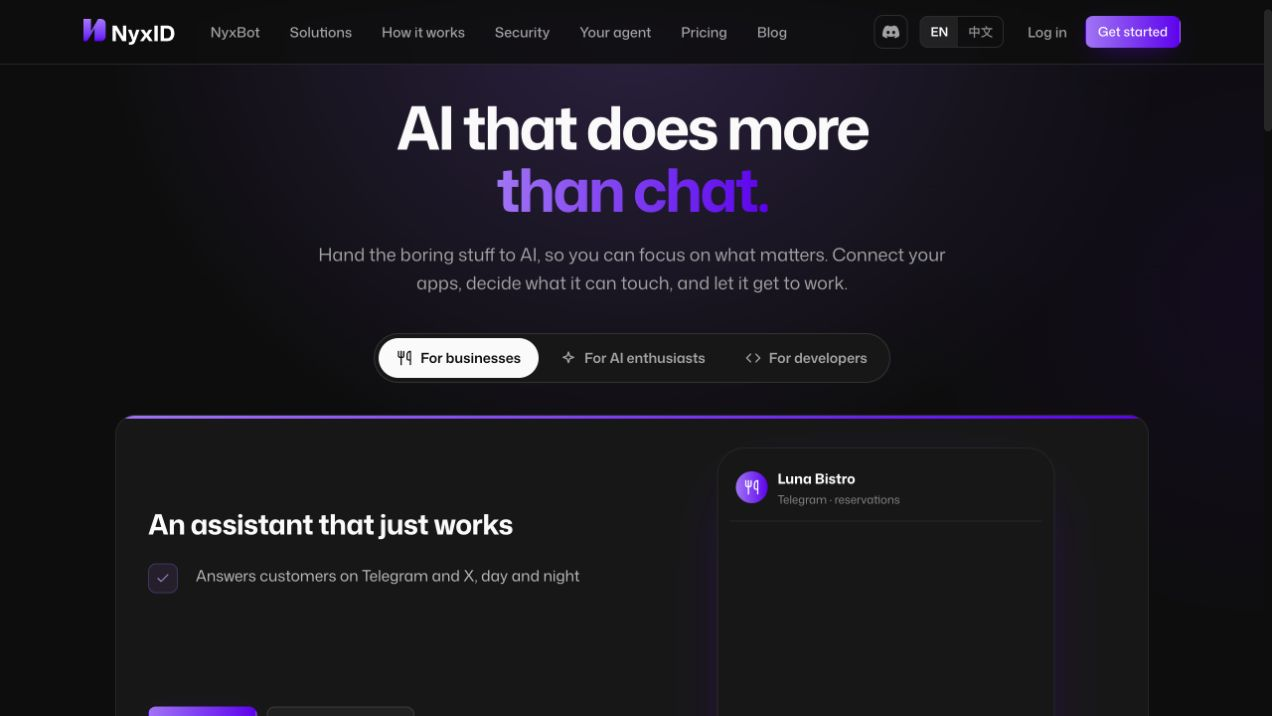
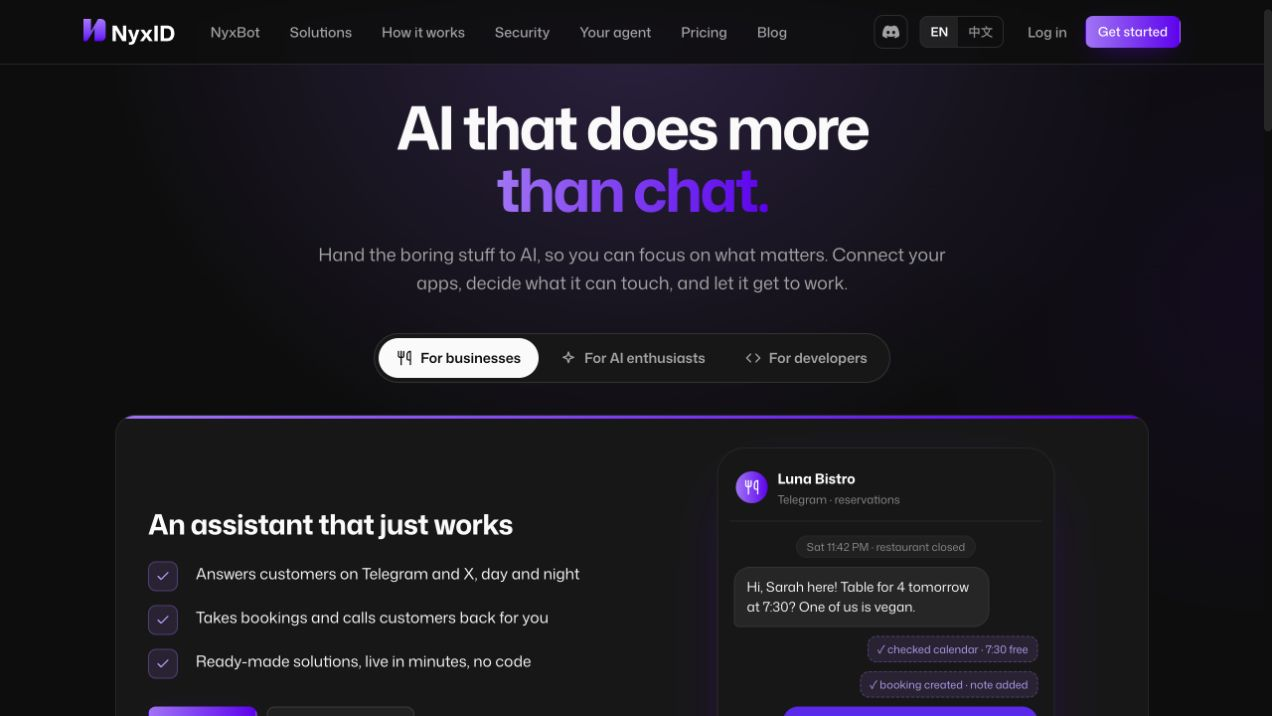
docs(website): 📝 record PR blocker and acceptance handoff

diff --git a/docs/plans/website-a-pr.md b/docs/plans/website-a-pr.md
@@ -1,0 +1,48 @@
+# Website A PR preparation
+
+PR creation is pending connector permission (`403 Resource not accessible by integration`). No PR URL or acceptance result is implied by this document.
+
+Create the fork review first:
+
+- Repository: `aelf-hzz780/NyxID`
+- Base: `codex/website-a-base`
+- Head: `codex/website-a-delivery`
+- Compare: https://github.com/aelf-hzz780/NyxID/compare/codex%2Fwebsite-a-base...codex%2Fwebsite-a-delivery?expand=1
+- Draft: yes, while independent acceptance/mobile validation are pending.
+
+Then create the upstream draft PR, linking the fork review:
+
+- Repository: `ChronoAIProject/NyxID`
+- Base: `main`
+- Head: `aelf-hzz780:codex/website-a-delivery`
+- Compare: https://github.com/ChronoAIProject/NyxID/compare/main...aelf-hzz780:codex%2Fwebsite-a-delivery?expand=1
+
+## Title
+
+feat(website): deliver approved NyxID website A
+
+## Body
+
+## Summary
+
+- Implement the approved product HTML as 25 bilingual public routes with its audience showcase, solution examples, integrations, pricing and articles. Keep the v4.1 homepage wall as the original 24-card static grid; no B effects.
+- Retain existing AuthFlow/login/register, invitation attribution, query propagation, trusted returns, authenticated root redirect and legacy blog URLs. Replace prototype-only success/trial actions with real registration/community links; unsupported newsletter submission is clearly unavailable.
+- Commit the source-migration tool, screenshots, runtime adaptations and review evidence in docs/plans/website-a-delivery.md and website-a-evidence. No auth/billing/backend changes, merge or deployment.
+
+## Test Plan
+
+- [x] 85 relevant frontend tests across 10 files; new regression tests cover the public path boundary, auth context and showcase/playback behavior. Backend tests are outside this frontend-only change.
+- [x] Full production build, including TypeScript, legal prerender, credential-accept and mock-footprint checks.
+- [x] Changed TypeScript ESLint; source generation reproduced byte-for-byte.
+- [x] 25 routes × English/Chinese = 50 desktop browser checks, auth entry/query comparison against production, interaction and original tool-wall geometry checks.
+- [ ] Mobile/device/browser validation: blocked because viewport.set(390x844) retained an actual 1280x720 viewport.
+- [ ] Real-account OAuth/MFA completion and independent acceptance: pending, not claimed.
+
+## Checklist
+
+- [x] Native React/router/i18n integration with scoped CSS and animation names.
+- [x] No new hardcoded secrets or credentials; the existing public referral behavior is preserved.
+- [x] No mock login/provisioning, fake contact success or sensitive error disclosure.
+- [x] Documentation, production adaptation matrix, commands, screenshots and residual risks recorded.
+
+Review baseline: codex/website-a-base mirrors upstream commit 8280098785b477a9980cc8aed98f43789d6fd3dc. The fork main branch is 12 commits behind; this non-protected base keeps review scoped to the delivery without pushing main. Implementation commit: a0ae2b3f3bf3908387978c3ca2067344f36b6c46. Independent acceptance is pending.

diff --git a/docs/plans/website-a-delivery.md b/docs/plans/website-a-delivery.md
@@ -134,6 +134,12 @@ No real login, OAuth consent, registration, message, purchase or account mutatio
 - Create fork review PR first (`codex/website-a-delivery` → `codex/website-a-base`), then upstream draft PR (`aelf-hzz780:codex/website-a-delivery` → `ChronoAIProject:main`). Neither is merged or deployed.
 - Independent acceptance chat: `01a13edf-2b31-75c1-b1ca-824d707f02ff`. Handoff must identify the exact delivery commit, both PRs and the blocked mobile check.
 
+### PR 创建阻塞 / PR creation blocker
+
+交付代码已提交并推送到 fork；GitHub 连接器身份核验为 `aelf-hzz780`，但创建 fork PR 返回 `403 Resource not accessible by integration`。现有 CLI 认证不可用，浏览器 GitHub 会话未登录。因此本轮尚未创建 fork/upstream PR，不能视为两级 PR 流程已完成。分支已在 GitHub 对比页验证为 1 个交付提交、108 个文件，可自动合并。未修改连接器权限或账户设置。
+
+The commit and both branches are pushed. PR creation is blocked by the connector's repository write permissions; the available CLI/browser sessions cannot create it. No PR was created or merged. The ready English description and compare links are in `website-a-pr.md`. Independent acceptance can review the exact commit while PR access is resolved.
+
 ## 剩余风险 / Remaining limits
 
 1. Actual 390px/mobile navigation, touch behavior, device performance and OS reduced-motion transitions require independent browser/device verification. Unit tests cover reduced-motion logic but are not OS/device evidence.
